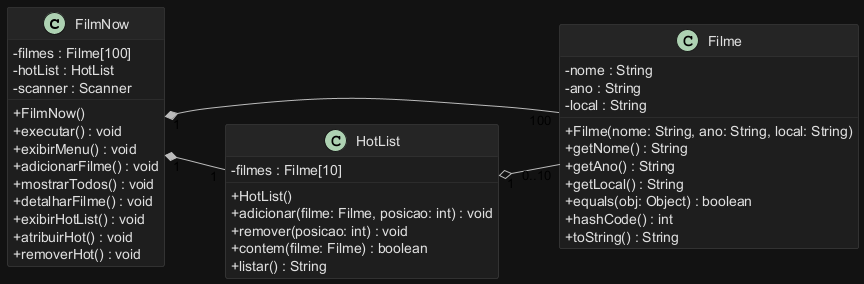
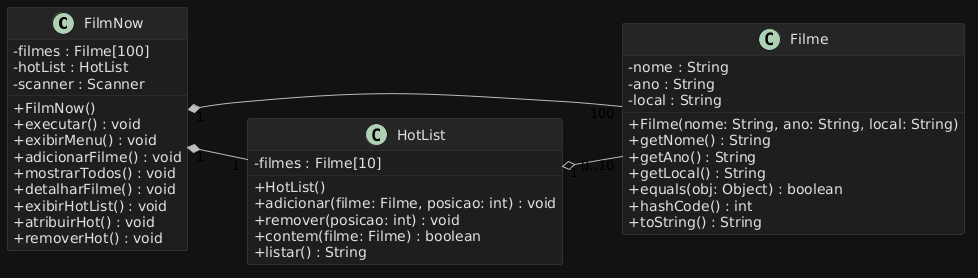
lab03

diff --git a/src/main/java/com/filmnow/HotList.java b/src/main/java/com/filmnow/HotList.java
@@ -1,5 +1,8 @@
 package com.filmnow;
 
+/**
+ * hotlist com 10 filmes
+ */
 public class HotList {
     private static final int MAX_HOTLIST = 10;
     private Filme[] filmes;
@@ -8,37 +11,44 @@ public class HotList {
         this.filmes = new Filme[MAX_HOTLIST];
     }
 
+    /**
+     * adiciona filme na posicao
+     * @param filme filme a adicionar
+     * @param posicao posicao 1 a 10
+     */
     public void adicionar(Filme filme, int posicao) {
-        // Remove o filme de qualquer posição anterior na HotList
         for (int i = 0; i < filmes.length; i++) {
-            if (filmes[i] != null && filmes[i].equals(filme)) {
-                filmes[i] = null;
-            }
+            if (filmes[i] != null && filmes[i].equals(filme)) filmes[i] = null;
         }
         filmes[posicao - 1] = filme;
     }
 
+    /**
+     * remove da hotlist
+     * @param posicao posicao 1 a 10
+     */
     public void remover(int posicao) {
-        if (posicao >= 1 && posicao <= MAX_HOTLIST) {
-            filmes[posicao - 1] = null;
-        }
+        if (posicao >= 1 && posicao <= MAX_HOTLIST) filmes[posicao - 1] = null;
     }
 
+    /**
+     * verifica se contem filme
+     * @param filme filme a buscar
+     * @return true se contem
+     */
     public boolean contem(Filme filme) {
-        for (Filme f : filmes) {
-            if (f != null && f.equals(filme)) {
-                return true;
-            }
-        }
+        for (Filme f : filmes) if (f != null && f.equals(filme)) return true;
         return false;
     }
 
+    /**
+     * lista a hotlist
+     * @return lista formatada
+     */
     public String listar() {
         StringBuilder sb = new StringBuilder();
         for (int i = 0; i < filmes.length; i++) {
-            if (filmes[i] != null) {
-                sb.append((i + 1)).append(" - ").append(filmes[i].getNome()).append(", ").append(filmes[i].getAno()).append("\n");
-            }
+            if (filmes[i] != null) sb.append(i + 1).append(" - ").append(filmes[i].getNome()).append(", ").append(filmes[i].getAno()).append("\n");
         }
         return sb.toString().trim();
     }

diff --git a/src/main/java/com/filmnow/FilmNow.java b/src/main/java/com/filmnow/FilmNow.java
@@ -2,6 +2,9 @@ package com.filmnow;
 
 import java.util.Scanner;
 
+/**
+ * sistema filmnow
+ */
 public class FilmNow {
     private static final int MAX_FILMES = 100;
     private static final int MAX_HOTLIST = 10;
@@ -9,12 +12,18 @@ public class FilmNow {
     private HotList hotList;
     private Scanner scanner;
 
+    /**
+     * cria filmnow
+     */
     public FilmNow() {
         this.filmes = new Filme[MAX_FILMES];
         this.hotList = new HotList();
         this.scanner = new Scanner(System.in);
     }
 
+    /**
+     * executa o sistema
+     */
     public void executar() {
         boolean executando = true;
         while (executando) {
@@ -100,9 +109,7 @@ public class FilmNow {
 
     private void mostrarTodos() {
         for (int i = 0; i < filmes.length; i++) {
-            if (filmes[i] != null) {
-                System.out.println((i + 1) + " - " + filmes[i].getNome());
-            }
+            if (filmes[i] != null) System.out.println((i + 1) + " - " + filmes[i].getNome());
         }
     }
 
@@ -118,7 +125,7 @@ public class FilmNow {
         Filme filme = filmes[posicao - 1];
         boolean isHot = hotList.contem(filme);
 
-        String prefixo = isHot ? "🔥 " : "";
+        String prefixo = isHot ? "HOT " : "";
         System.out.println(prefixo + filme.getNome() + ", " + filme.getAno());
         System.out.println(filme.getLocal());
     }
@@ -161,6 +168,10 @@ public class FilmNow {
         hotList.remover(posicao);
     }
 
+    /**
+     * main do sistema
+     * @param args argumentos
+     */
     public static void main(String[] args) {
         FilmNow app = new FilmNow();
         app.executar();

diff --git a/src/main/java/com/filmnow/Filme.java b/src/main/java/com/filmnow/Filme.java
@@ -2,11 +2,20 @@ package com.filmnow;
 
 import java.util.Objects;
 
+/**
+ * filme com nome ano e local
+ */
 public class Filme {
     private String nome;
     private String ano;
     private String local;
 
+    /**
+     * cria filme
+     * @param nome nome do filme
+     * @param ano ano do filme
+     * @param local local do filme
+     */
     public Filme(String nome, String ano, String local) {
         this.nome = nome;
         this.ano = ano;
